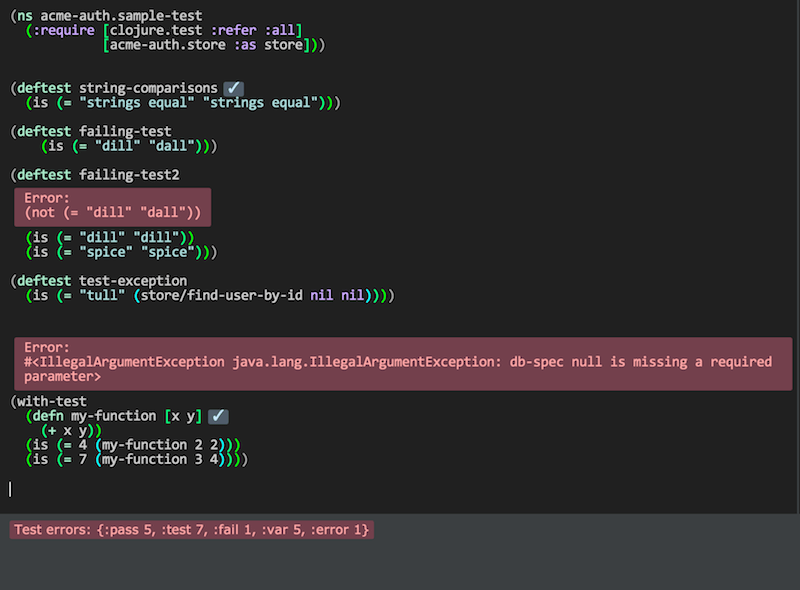
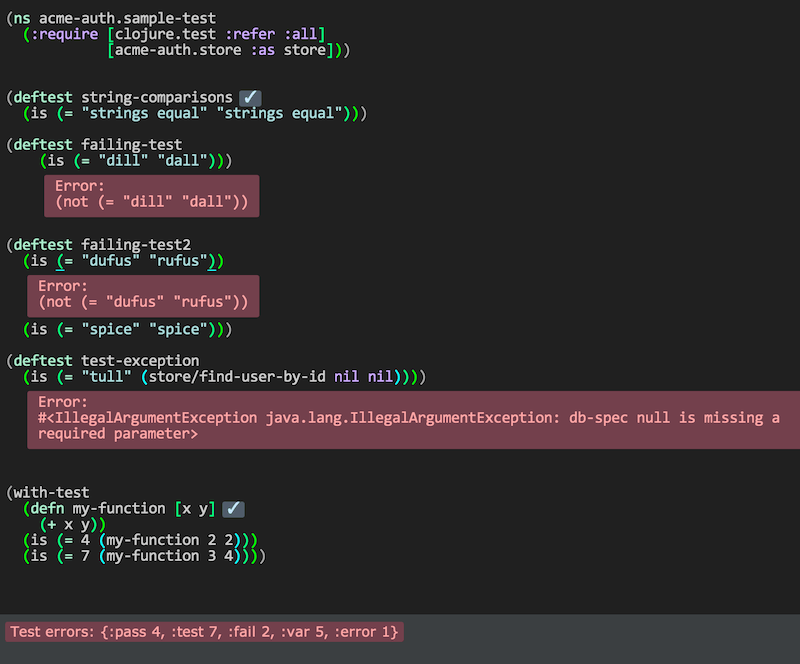
Off by one error for test results

Changed region(s): [[0.0, 0.122, 1.0, 0.9763], [0.0, 0.0, 0.4375, 0.0915]]

diff --git a/clj-light-refactor_compiled.js b/clj-light-refactor_compiled.js
@@ -474,49 +474,49 @@ lt.plugins.cljrefactor.testing.show_summary = (function show_summary(summary){if
 {return lt.objs.notifos.set_msg_BANG_.call(null,[cljs.core.str("Test summary: "),cljs.core.str(summary)].join(''));
 }
 });
-lt.plugins.cljrefactor.testing.show_successes = (function show_successes(ed,results){var seq__19399 = cljs.core.seq.call(null,cljs.core.filter.call(null,(function (p__19403){var vec__19404 = p__19403;var k = cljs.core.nth.call(null,vec__19404,0,null);var v = cljs.core.nth.call(null,vec__19404,1,null);return cljs.core.every_QMARK_.call(null,((function (vec__19404,k,v){
-return (function (p1__19392_SHARP_){return cljs.core._EQ_.call(null,new cljs.core.Keyword(null,"type","type",1017479852).cljs$core$IFn$_invoke$arity$1(p1__19392_SHARP_),"pass");
-});})(vec__19404,k,v))
+lt.plugins.cljrefactor.testing.show_successes = (function show_successes(ed,results){var seq__19471 = cljs.core.seq.call(null,cljs.core.filter.call(null,(function (p__19475){var vec__19476 = p__19475;var k = cljs.core.nth.call(null,vec__19476,0,null);var v = cljs.core.nth.call(null,vec__19476,1,null);return cljs.core.every_QMARK_.call(null,((function (vec__19476,k,v){
+return (function (p1__19464_SHARP_){return cljs.core._EQ_.call(null,new cljs.core.Keyword(null,"type","type",1017479852).cljs$core$IFn$_invoke$arity$1(p1__19464_SHARP_),"pass");
+});})(vec__19476,k,v))
 ,v);
-}),results));var chunk__19400 = null;var count__19401 = 0;var i__19402 = 0;while(true){
-if((i__19402 < count__19401))
-{var ks = cljs.core._nth.call(null,chunk__19400,i__19402);var line_19415 = lt.plugins.cljrefactor.testing.find_line_containing.call(null,ed,cljs.core.name.call(null,cljs.core.first.call(null,ks)));lt.object.raise.call(null,ed,new cljs.core.Keyword(null,"editor.result","editor.result",4030217008),"\u2713",new cljs.core.PersistentArrayMap(null, 1, [new cljs.core.Keyword(null,"line","line",1017226086),line_19415], null));
+}),results));var chunk__19472 = null;var count__19473 = 0;var i__19474 = 0;while(true){
+if((i__19474 < count__19473))
+{var ks = cljs.core._nth.call(null,chunk__19472,i__19474);var line_19487 = lt.plugins.cljrefactor.testing.find_line_containing.call(null,ed,cljs.core.name.call(null,cljs.core.first.call(null,ks)));lt.object.raise.call(null,ed,new cljs.core.Keyword(null,"editor.result","editor.result",4030217008),"\u2713",new cljs.core.PersistentArrayMap(null, 1, [new cljs.core.Keyword(null,"line","line",1017226086),line_19487], null));
 {
-var G__19416 = seq__19399;
-var G__19417 = chunk__19400;
-var G__19418 = count__19401;
-var G__19419 = (i__19402 + 1);
-seq__19399 = G__19416;
-chunk__19400 = G__19417;
-count__19401 = G__19418;
-i__19402 = G__19419;
+var G__19488 = seq__19471;
+var G__19489 = chunk__19472;
+var G__19490 = count__19473;
+var G__19491 = (i__19474 + 1);
+seq__19471 = G__19488;
+chunk__19472 = G__19489;
+count__19473 = G__19490;
+i__19474 = G__19491;
 continue;
 }
 } else
-{var temp__4092__auto__ = cljs.core.seq.call(null,seq__19399);if(temp__4092__auto__)
-{var seq__19399__$1 = temp__4092__auto__;if(cljs.core.chunked_seq_QMARK_.call(null,seq__19399__$1))
-{var c__16530__auto__ = cljs.core.chunk_first.call(null,seq__19399__$1);{
-var G__19420 = cljs.core.chunk_rest.call(null,seq__19399__$1);
-var G__19421 = c__16530__auto__;
-var G__19422 = cljs.core.count.call(null,c__16530__auto__);
-var G__19423 = 0;
-seq__19399 = G__19420;
-chunk__19400 = G__19421;
-count__19401 = G__19422;
-i__19402 = G__19423;
+{var temp__4092__auto__ = cljs.core.seq.call(null,seq__19471);if(temp__4092__auto__)
+{var seq__19471__$1 = temp__4092__auto__;if(cljs.core.chunked_seq_QMARK_.call(null,seq__19471__$1))
+{var c__16530__auto__ = cljs.core.chunk_first.call(null,seq__19471__$1);{
+var G__19492 = cljs.core.chunk_rest.call(null,seq__19471__$1);
+var G__19493 = c__16530__auto__;
+var G__19494 = cljs.core.count.call(null,c__16530__auto__);
+var G__19495 = 0;
+seq__19471 = G__19492;
+chunk__19472 = G__19493;
+count__19473 = G__19494;
+i__19474 = G__19495;
 continue;
 }
 } else
-{var ks = cljs.core.first.call(null,seq__19399__$1);var line_19424 = lt.plugins.cljrefactor.testing.find_line_containing.call(null,ed,cljs.core.name.call(null,cljs.core.first.call(null,ks)));lt.object.raise.call(null,ed,new cljs.core.Keyword(null,"editor.result","editor.result",4030217008),"\u2713",new cljs.core.PersistentArrayMap(null, 1, [new cljs.core.Keyword(null,"line","line",1017226086),line_19424], null));
+{var ks = cljs.core.first.call(null,seq__19471__$1);var line_19496 = lt.plugins.cljrefactor.testing.find_line_containing.call(null,ed,cljs.core.name.call(null,cljs.core.first.call(null,ks)));lt.object.raise.call(null,ed,new cljs.core.Keyword(null,"editor.result","editor.result",4030217008),"\u2713",new cljs.core.PersistentArrayMap(null, 1, [new cljs.core.Keyword(null,"line","line",1017226086),line_19496], null));
 {
-var G__19425 = cljs.core.next.call(null,seq__19399__$1);
-var G__19426 = null;
-var G__19427 = 0;
-var G__19428 = 0;
-seq__19399 = G__19425;
-chunk__19400 = G__19426;
-count__19401 = G__19427;
-i__19402 = G__19428;
+var G__19497 = cljs.core.next.call(null,seq__19471__$1);
+var G__19498 = null;
+var G__19499 = 0;
+var G__19500 = 0;
+seq__19471 = G__19497;
+chunk__19472 = G__19498;
+count__19473 = G__19499;
+i__19474 = G__19500;
 continue;
 }
 }
@@ -527,51 +527,51 @@ continue;
 break;
 }
 });
-lt.plugins.cljrefactor.testing.show_errors = (function show_errors(ed,results){var seq__19409 = cljs.core.seq.call(null,cljs.core.apply.call(null,cljs.core.concat,cljs.core.vals.call(null,results)));var chunk__19410 = null;var count__19411 = 0;var i__19412 = 0;while(true){
-if((i__19412 < count__19411))
-{var r = cljs.core._nth.call(null,chunk__19410,i__19412);if(cljs.core._EQ_.call(null,new cljs.core.Keyword(null,"type","type",1017479852).cljs$core$IFn$_invoke$arity$1(r),"pass"))
+lt.plugins.cljrefactor.testing.show_errors = (function show_errors(ed,results){var seq__19481 = cljs.core.seq.call(null,cljs.core.apply.call(null,cljs.core.concat,cljs.core.vals.call(null,results)));var chunk__19482 = null;var count__19483 = 0;var i__19484 = 0;while(true){
+if((i__19484 < count__19483))
+{var r = cljs.core._nth.call(null,chunk__19482,i__19484);if(cljs.core._EQ_.call(null,new cljs.core.Keyword(null,"type","type",1017479852).cljs$core$IFn$_invoke$arity$1(r),"pass"))
 {} else
-{lt.object.raise.call(null,ed,new cljs.core.Keyword(null,"editor.exception","editor.exception",3983021184),[cljs.core.str("Error:\n"),cljs.core.str(new cljs.core.Keyword(null,"actual","actual",3885931776).cljs$core$IFn$_invoke$arity$1(r))].join(''),new cljs.core.PersistentArrayMap(null, 1, [new cljs.core.Keyword(null,"line","line",1017226086),new cljs.core.Keyword(null,"line","line",1017226086).cljs$core$IFn$_invoke$arity$1(r)], null));
+{lt.object.raise.call(null,ed,new cljs.core.Keyword(null,"editor.exception","editor.exception",3983021184),[cljs.core.str("Error:\n"),cljs.core.str(new cljs.core.Keyword(null,"actual","actual",3885931776).cljs$core$IFn$_invoke$arity$1(r))].join(''),new cljs.core.PersistentArrayMap(null, 1, [new cljs.core.Keyword(null,"line","line",1017226086),(new cljs.core.Keyword(null,"line","line",1017226086).cljs$core$IFn$_invoke$arity$1(r) - 1)], null));
 }
 {
-var G__19429 = seq__19409;
-var G__19430 = chunk__19410;
-var G__19431 = count__19411;
-var G__19432 = (i__19412 + 1);
-seq__19409 = G__19429;
-chunk__19410 = G__19430;
-count__19411 = G__19431;
-i__19412 = G__19432;
+var G__19501 = seq__19481;
+var G__19502 = chunk__19482;
+var G__19503 = count__19483;
+var G__19504 = (i__19484 + 1);
+seq__19481 = G__19501;
+chunk__19482 = G__19502;
+count__19483 = G__19503;
+i__19484 = G__19504;
 continue;
 }
 } else
-{var temp__4092__auto__ = cljs.core.seq.call(null,seq__19409);if(temp__4092__auto__)
-{var seq__19409__$1 = temp__4092__auto__;if(cljs.core.chunked_seq_QMARK_.call(null,seq__19409__$1))
-{var c__16530__auto__ = cljs.core.chunk_first.call(null,seq__19409__$1);{
-var G__19433 = cljs.core.chunk_rest.call(null,seq__19409__$1);
-var G__19434 = c__16530__auto__;
-var G__19435 = cljs.core.count.call(null,c__16530__auto__);
-var G__19436 = 0;
-seq__19409 = G__19433;
-chunk__19410 = G__19434;
-count__19411 = G__19435;
-i__19412 = G__19436;
+{var temp__4092__auto__ = cljs.core.seq.call(null,seq__19481);if(temp__4092__auto__)
+{var seq__19481__$1 = temp__4092__auto__;if(cljs.core.chunked_seq_QMARK_.call(null,seq__19481__$1))
+{var c__16530__auto__ = cljs.core.chunk_first.call(null,seq__19481__$1);{
+var G__19505 = cljs.core.chunk_rest.call(null,seq__19481__$1);
+var G__19506 = c__16530__auto__;
+var G__19507 = cljs.core.count.call(null,c__16530__auto__);
+var G__19508 = 0;
+seq__19481 = G__19505;
+chunk__19482 = G__19506;
+count__19483 = G__19507;
+i__19484 = G__19508;
 continue;
 }
 } else
-{var r = cljs.core.first.call(null,seq__19409__$1);if(cljs.core._EQ_.call(null,new cljs.core.Keyword(null,"type","type",1017479852).cljs$core$IFn$_invoke$arity$1(r),"pass"))
+{var r = cljs.core.first.call(null,seq__19481__$1);if(cljs.core._EQ_.call(null,new cljs.core.Keyword(null,"type","type",1017479852).cljs$core$IFn$_invoke$arity$1(r),"pass"))
 {} else
-{lt.object.raise.call(null,ed,new cljs.core.Keyword(null,"editor.exception","editor.exception",3983021184),[cljs.core.str("Error:\n"),cljs.core.str(new cljs.core.Keyword(null,"actual","actual",3885931776).cljs$core$IFn$_invoke$arity$1(r))].join(''),new cljs.core.PersistentArrayMap(null, 1, [new cljs.core.Keyword(null,"line","line",1017226086),new cljs.core.Keyword(null,"line","line",1017226086).cljs$core$IFn$_invoke$arity$1(r)], null));
+{lt.object.raise.call(null,ed,new cljs.core.Keyword(null,"editor.exception","editor.exception",3983021184),[cljs.core.str("Error:\n"),cljs.core.str(new cljs.core.Keyword(null,"actual","actual",3885931776).cljs$core$IFn$_invoke$arity$1(r))].join(''),new cljs.core.PersistentArrayMap(null, 1, [new cljs.core.Keyword(null,"line","line",1017226086),(new cljs.core.Keyword(null,"line","line",1017226086).cljs$core$IFn$_invoke$arity$1(r) - 1)], null));
 }
 {
-var G__19437 = cljs.core.next.call(null,seq__19409__$1);
-var G__19438 = null;
-var G__19439 = 0;
-var G__19440 = 0;
-seq__19409 = G__19437;
-chunk__19410 = G__19438;
-count__19411 = G__19439;
-i__19412 = G__19440;
+var G__19509 = cljs.core.next.call(null,seq__19481__$1);
+var G__19510 = null;
+var G__19511 = 0;
+var G__19512 = 0;
+seq__19481 = G__19509;
+chunk__19482 = G__19510;
+count__19483 = G__19511;
+i__19484 = G__19512;
 continue;
 }
 }
@@ -582,16 +582,16 @@ continue;
 break;
 }
 });
-lt.plugins.cljrefactor.testing.__BEH__test_res = (function __BEH__test_res(ed,res){var resp_19441 = new cljs.core.Keyword(null,"results","results",2111450984).cljs$core$IFn$_invoke$arity$1(cljs.core.first.call(null,new cljs.core.Keyword(null,"result","result",4374444943).cljs$core$IFn$_invoke$arity$1(cljs.core.first.call(null,new cljs.core.Keyword(null,"results","results",2111450984).cljs$core$IFn$_invoke$arity$1(res)))));var summary_19442 = new cljs.core.Keyword(null,"summary","summary",3451231000).cljs$core$IFn$_invoke$arity$1(cljs.core.first.call(null,new cljs.core.Keyword(null,"result","result",4374444943).cljs$core$IFn$_invoke$arity$1(cljs.core.first.call(null,new cljs.core.Keyword(null,"results","results",2111450984).cljs$core$IFn$_invoke$arity$1(res)))));lt.plugins.cljrefactor.testing.show_successes.call(null,ed,resp_19441);
-lt.plugins.cljrefactor.testing.show_errors.call(null,ed,resp_19441);
-lt.plugins.cljrefactor.testing.show_summary.call(null,summary_19442);
+lt.plugins.cljrefactor.testing.__BEH__test_res = (function __BEH__test_res(ed,res){var resp_19513 = new cljs.core.Keyword(null,"results","results",2111450984).cljs$core$IFn$_invoke$arity$1(cljs.core.first.call(null,new cljs.core.Keyword(null,"result","result",4374444943).cljs$core$IFn$_invoke$arity$1(cljs.core.first.call(null,new cljs.core.Keyword(null,"results","results",2111450984).cljs$core$IFn$_invoke$arity$1(res)))));var summary_19514 = new cljs.core.Keyword(null,"summary","summary",3451231000).cljs$core$IFn$_invoke$arity$1(cljs.core.first.call(null,new cljs.core.Keyword(null,"result","result",4374444943).cljs$core$IFn$_invoke$arity$1(cljs.core.first.call(null,new cljs.core.Keyword(null,"results","results",2111450984).cljs$core$IFn$_invoke$arity$1(res)))));lt.plugins.cljrefactor.testing.show_successes.call(null,ed,resp_19513);
+lt.plugins.cljrefactor.testing.show_errors.call(null,ed,resp_19513);
+lt.plugins.cljrefactor.testing.show_summary.call(null,summary_19514);
 return lt.objs.notifos.done_working.call(null);
 });
 lt.object.behavior_STAR_.call(null,new cljs.core.Keyword("lt.plugins.cljrefactor.testing","test-res","lt.plugins.cljrefactor.testing/test-res",4130252604),new cljs.core.Keyword(null,"reaction","reaction",4441361819),lt.plugins.cljrefactor.testing.__BEH__test_res,new cljs.core.Keyword(null,"triggers","triggers",2516997421),new cljs.core.PersistentHashSet(null, new cljs.core.PersistentArrayMap(null, 1, [new cljs.core.Keyword(null,"editor.eval.clj.result.refactor.test","editor.eval.clj.result.refactor.test",1258664989),null], null), null));
 lt.plugins.cljrefactor.testing.__BEH__test_all = (function __BEH__test_all(ed){return lt.object.raise.call(null,ed,new cljs.core.Keyword(null,"eval.custom","eval.custom",3328560245),lt.plugins.cljrefactor.testing.test_op.call(null,ed,null),new cljs.core.PersistentArrayMap(null, 2, [new cljs.core.Keyword(null,"result-type","result-type",4725630556),new cljs.core.Keyword(null,"refactor.test","refactor.test",2087392560),new cljs.core.Keyword(null,"verbatim","verbatim",3307884968),true], null));
 });
 lt.object.behavior_STAR_.call(null,new cljs.core.Keyword("lt.plugins.cljrefactor.testing","test-all","lt.plugins.cljrefactor.testing/test-all",4130301499),new cljs.core.Keyword(null,"reaction","reaction",4441361819),lt.plugins.cljrefactor.testing.__BEH__test_all,new cljs.core.Keyword(null,"triggers","triggers",2516997421),new cljs.core.PersistentHashSet(null, new cljs.core.PersistentArrayMap(null, 1, [new cljs.core.Keyword(null,"refactor.test-all","refactor.test-all",4194169988),null], null), null));
-lt.plugins.cljrefactor.testing.__BEH__test_one = (function __BEH__test_one(ed){var temp__4092__auto__ = (function (){var G__19414 = lt.plugins.cljrefactor.util.get_top_level_form.call(null,ed);var G__19414__$1 = (((G__19414 == null))?null:new cljs.core.Keyword(null,"form-str","form-str",1486434586).cljs$core$IFn$_invoke$arity$1(G__19414));var G__19414__$2 = (((G__19414__$1 == null))?null:lt.plugins.cljrefactor.parser.find_test_def.call(null,G__19414__$1));return G__19414__$2;
+lt.plugins.cljrefactor.testing.__BEH__test_one = (function __BEH__test_one(ed){var temp__4092__auto__ = (function (){var G__19486 = lt.plugins.cljrefactor.util.get_top_level_form.call(null,ed);var G__19486__$1 = (((G__19486 == null))?null:new cljs.core.Keyword(null,"form-str","form-str",1486434586).cljs$core$IFn$_invoke$arity$1(G__19486));var G__19486__$2 = (((G__19486__$1 == null))?null:lt.plugins.cljrefactor.parser.find_test_def.call(null,G__19486__$1));return G__19486__$2;
 })();if(cljs.core.truth_(temp__4092__auto__))
 {var fixture = temp__4092__auto__;return lt.object.raise.call(null,ed,new cljs.core.Keyword(null,"eval.custom","eval.custom",3328560245),lt.plugins.cljrefactor.testing.test_op.call(null,ed,fixture),new cljs.core.PersistentArrayMap(null, 2, [new cljs.core.Keyword(null,"result-type","result-type",4725630556),new cljs.core.Keyword(null,"refactor.test","refactor.test",2087392560),new cljs.core.Keyword(null,"verbatim","verbatim",3307884968),true], null));
 } else
